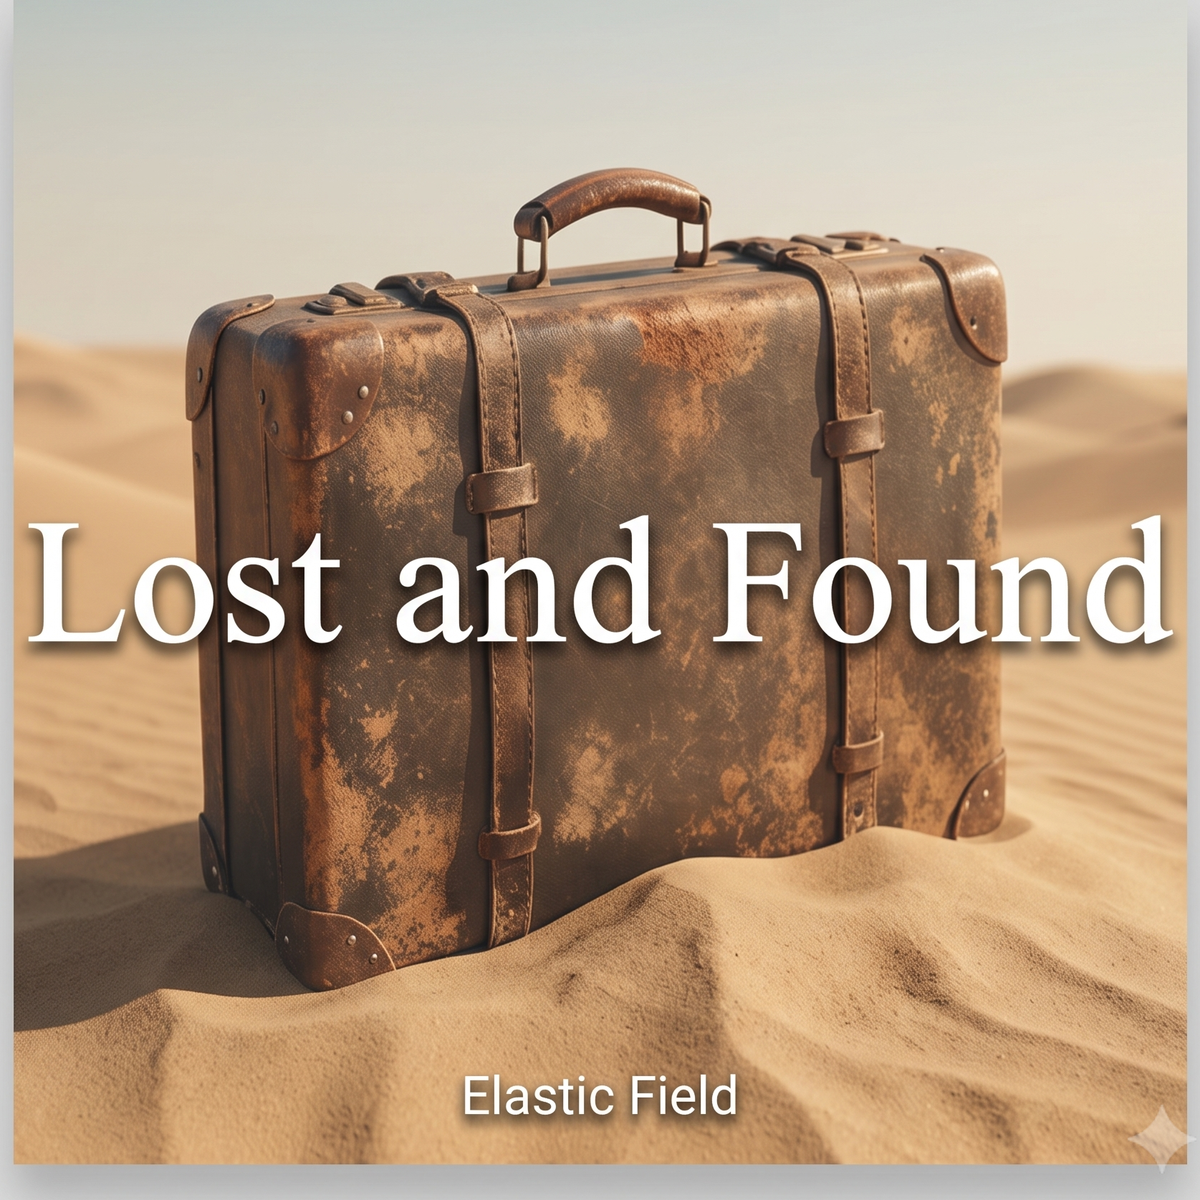
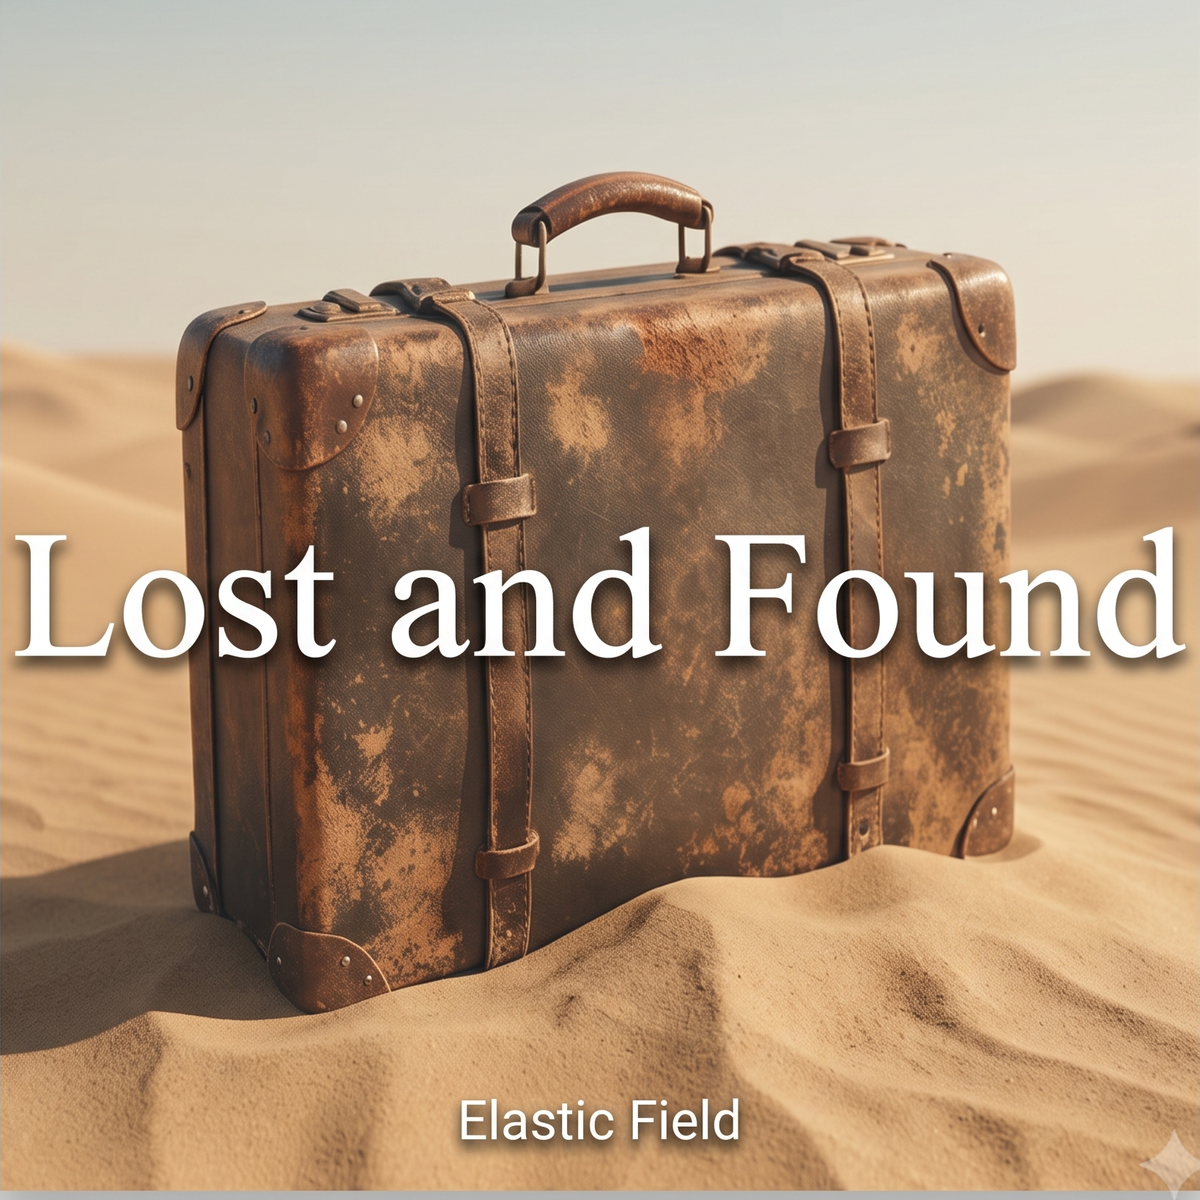
Fix Lost and Found cover crop and use square tiles for album art.
Removes gray border band from the cover and prevents 4:3 tiles from cropping square artwork.

Changed region(s): [[0.0, 0.0617, 1.0, 1.0], [0.0, 0.0, 0.0308, 0.0308]]

diff --git a/index.html b/index.html
@@ -132,6 +132,7 @@ h2{margin:0 0 16px;font-size:13px;font-weight:600;text-transform:uppercase;lette
 
 /* Media tiles */
 .tile-cover{aspect-ratio:4/3;border-bottom:1px solid var(--line);background:#0a0a0a;overflow:hidden;border-top-left-radius:var(--radius);border-top-right-radius:var(--radius)}
+.tile-cover.square{aspect-ratio:1/1}
 .tile-cover img,.tile-cover .poster{width:100%;height:100%;object-fit:cover;display:block}
 
 /* 1-Klick Poster */
@@ -274,7 +275,7 @@ h2{margin:0 0 16px;font-size:13px;font-weight:600;text-transform:uppercase;lette
       <h2>Listen</h2>
       <p class="kicker" style="margin:-4px 0 12px"><strong>Smoke & Static</strong> — digital download via shop. Streaming release coming soon.</p>
       <div class="card" style="overflow:hidden">
-        <div class="tile-cover poster spotify" role="button" tabindex="0"
+        <div class="tile-cover square poster spotify" role="button" tabindex="0"
              aria-label="Load Spotify player"
              data-src="https://open.spotify.com/embed/artist/2wn4Zq8AOBsX50X7fyBEoL?theme=0">
           <img src="cover-lost-and-found.png" alt="Elastic Field on Spotify — previous releases">
@@ -338,7 +339,7 @@ h2{margin:0 0 16px;font-size:13px;font-weight:600;text-transform:uppercase;lette
       <h2>Discography</h2>
       <div class="grid">
         <article class="card col-4">
-          <div class="tile-cover"><img src="album/smoke-and-static/00_smoke_and_static_album_1x1.png" alt="Smoke & Static cover"></div>
+          <div class="tile-cover square"><img src="album/smoke-and-static/00_smoke_and_static_album_1x1.png" alt="Smoke & Static cover"></div>
           <div class="tile-body">
             <strong>Smoke & Static</strong> · <span class="kicker">Third Album · 2026</span>
             <div style="margin-top:10px;display:flex;gap:10px;flex-wrap:wrap">
@@ -349,7 +350,7 @@ h2{margin:0 0 16px;font-size:13px;font-weight:600;text-transform:uppercase;lette
         </article>
 
         <article class="card col-4">
-          <div class="tile-cover"><img src="cover-lost-and-found.png" alt="Lost and Found cover"></div>
+          <div class="tile-cover square"><img src="cover-lost-and-found.png" alt="Lost and Found cover"></div>
           <div class="tile-body">
             <strong>Lost and Found</strong> · <span class="kicker">EP</span>
             <div style="margin-top:10px;display:flex;gap:10px;flex-wrap:wrap">
@@ -359,7 +360,7 @@ h2{margin:0 0 16px;font-size:13px;font-weight:600;text-transform:uppercase;lette
         </article>
 
         <article class="card col-4">
-          <div class="tile-cover"><img src="cover-non-smokers-nightmare.png" alt="Non Smokers Nightmare cover"></div>
+          <div class="tile-cover square"><img src="cover-non-smokers-nightmare.png" alt="Non Smokers Nightmare cover"></div>
           <div class="tile-body">
             <strong>Non Smokers Nightmare</strong> · <span class="kicker">Album</span>
             <div style="margin-top:10px;display:flex;gap:10px;flex-wrap:wrap">
@@ -369,7 +370,7 @@ h2{margin:0 0 16px;font-size:13px;font-weight:600;text-transform:uppercase;lette
         </article>
 
         <article class="card col-4">
-          <div class="tile-cover"><img src="cover-another-non-smokers-nightmare.png" alt="Another Non Smokers Nightmare cover"></div>
+          <div class="tile-cover square"><img src="cover-another-non-smokers-nightmare.png" alt="Another Non Smokers Nightmare cover"></div>
           <div class="tile-body">
             <strong>Another Non Smokers Nightmare</strong> · <span class="kicker">Album</span>
             <div style="margin-top:10px;display:flex;gap:10px;flex-wrap:wrap">
@@ -387,7 +388,7 @@ h2{margin:0 0 16px;font-size:13px;font-weight:600;text-transform:uppercase;lette
       <h2>Shop</h2>
       <div class="grid">
         <article class="card col-6">
-          <div class="tile-cover"><img src="album/smoke-and-static/00_smoke_and_static_album_1x1.png" alt="Smoke & Static"></div>
+          <div class="tile-cover square"><img src="album/smoke-and-static/00_smoke_and_static_album_1x1.png" alt="Smoke & Static"></div>
           <div class="tile-body">
             <strong>Smoke & Static</strong> · <span class="kicker">Third Album · 11 tracks · WAV + MP3</span>
             <p class="kicker" style="margin-top:8px">Full album · 11 tracks · instant WAV + MP3 download when store is live.</p>
@@ -395,7 +396,7 @@ h2{margin:0 0 16px;font-size:13px;font-weight:600;text-transform:uppercase;lette
           </div>
         </article>
         <article class="card col-6">
-          <div class="tile-cover"><img src="cover-lost-and-found.png" alt="Lost and Found cover"></div>
+          <div class="tile-cover square"><img src="cover-lost-and-found.png" alt="Lost and Found cover"></div>
           <div class="tile-body">
             <strong>Lost and Found</strong> · <span class="kicker">EP · 2025</span>
             <div style="margin-top:10px;display:flex;gap:10px;flex-wrap:wrap">
